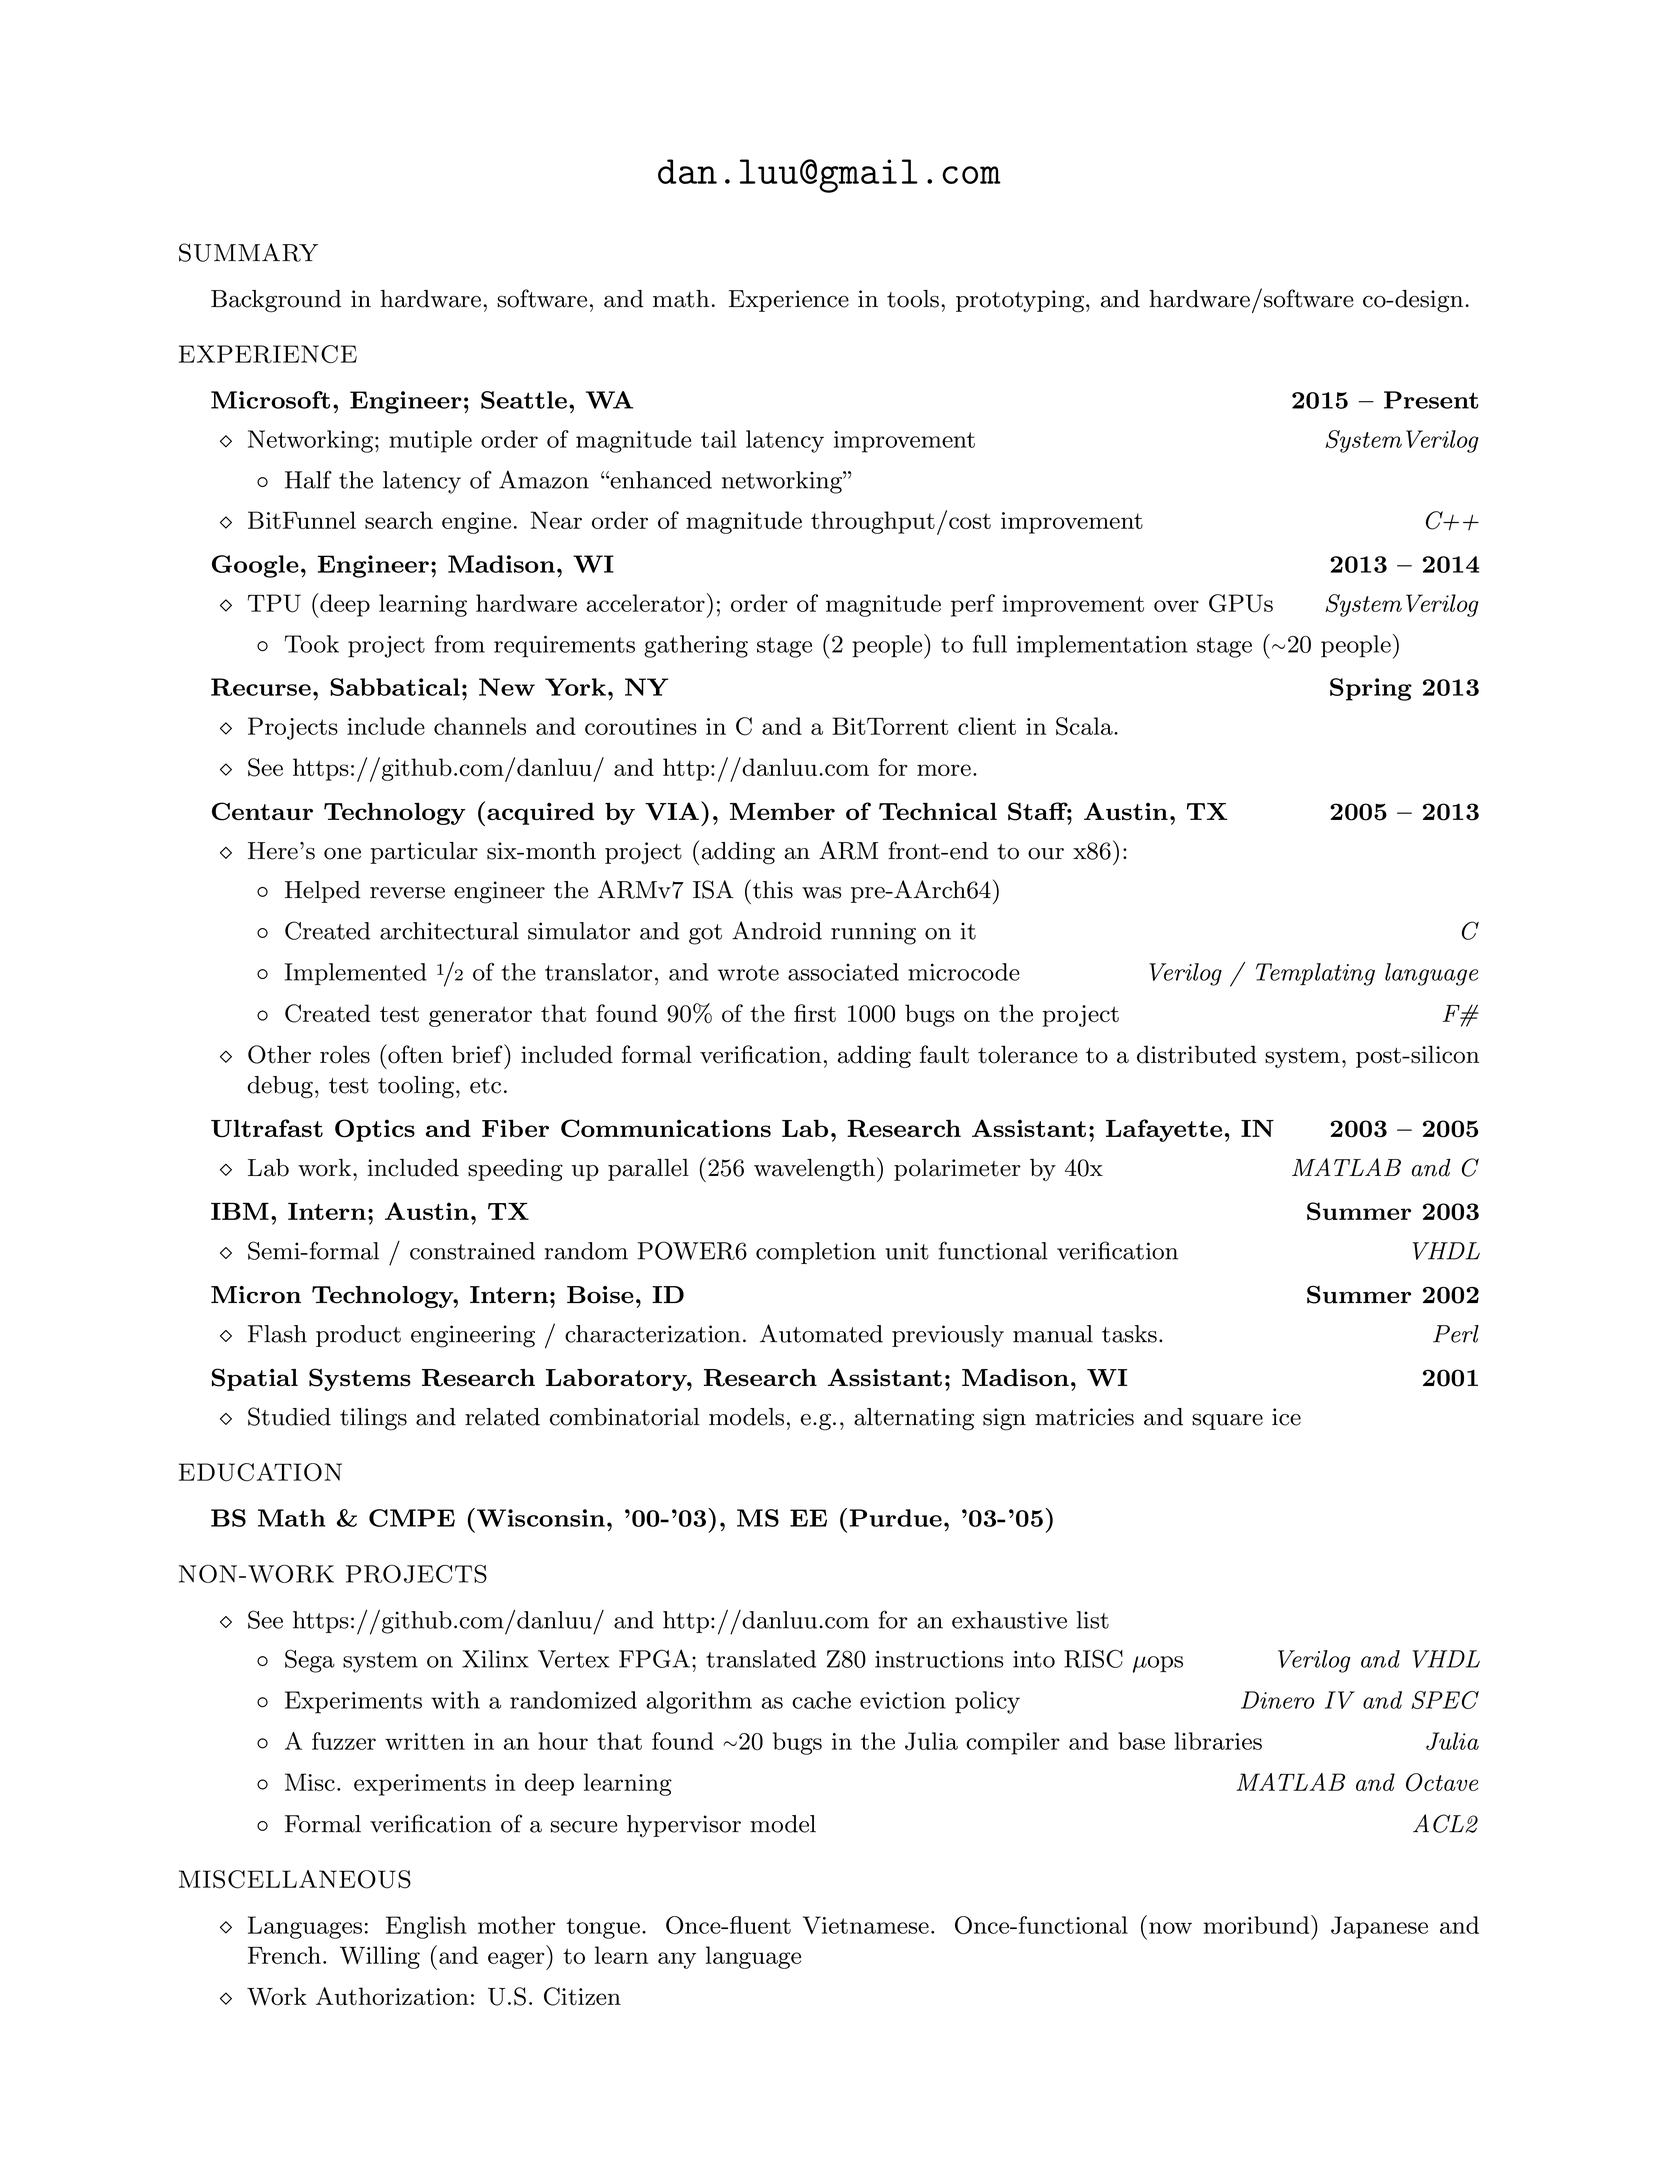
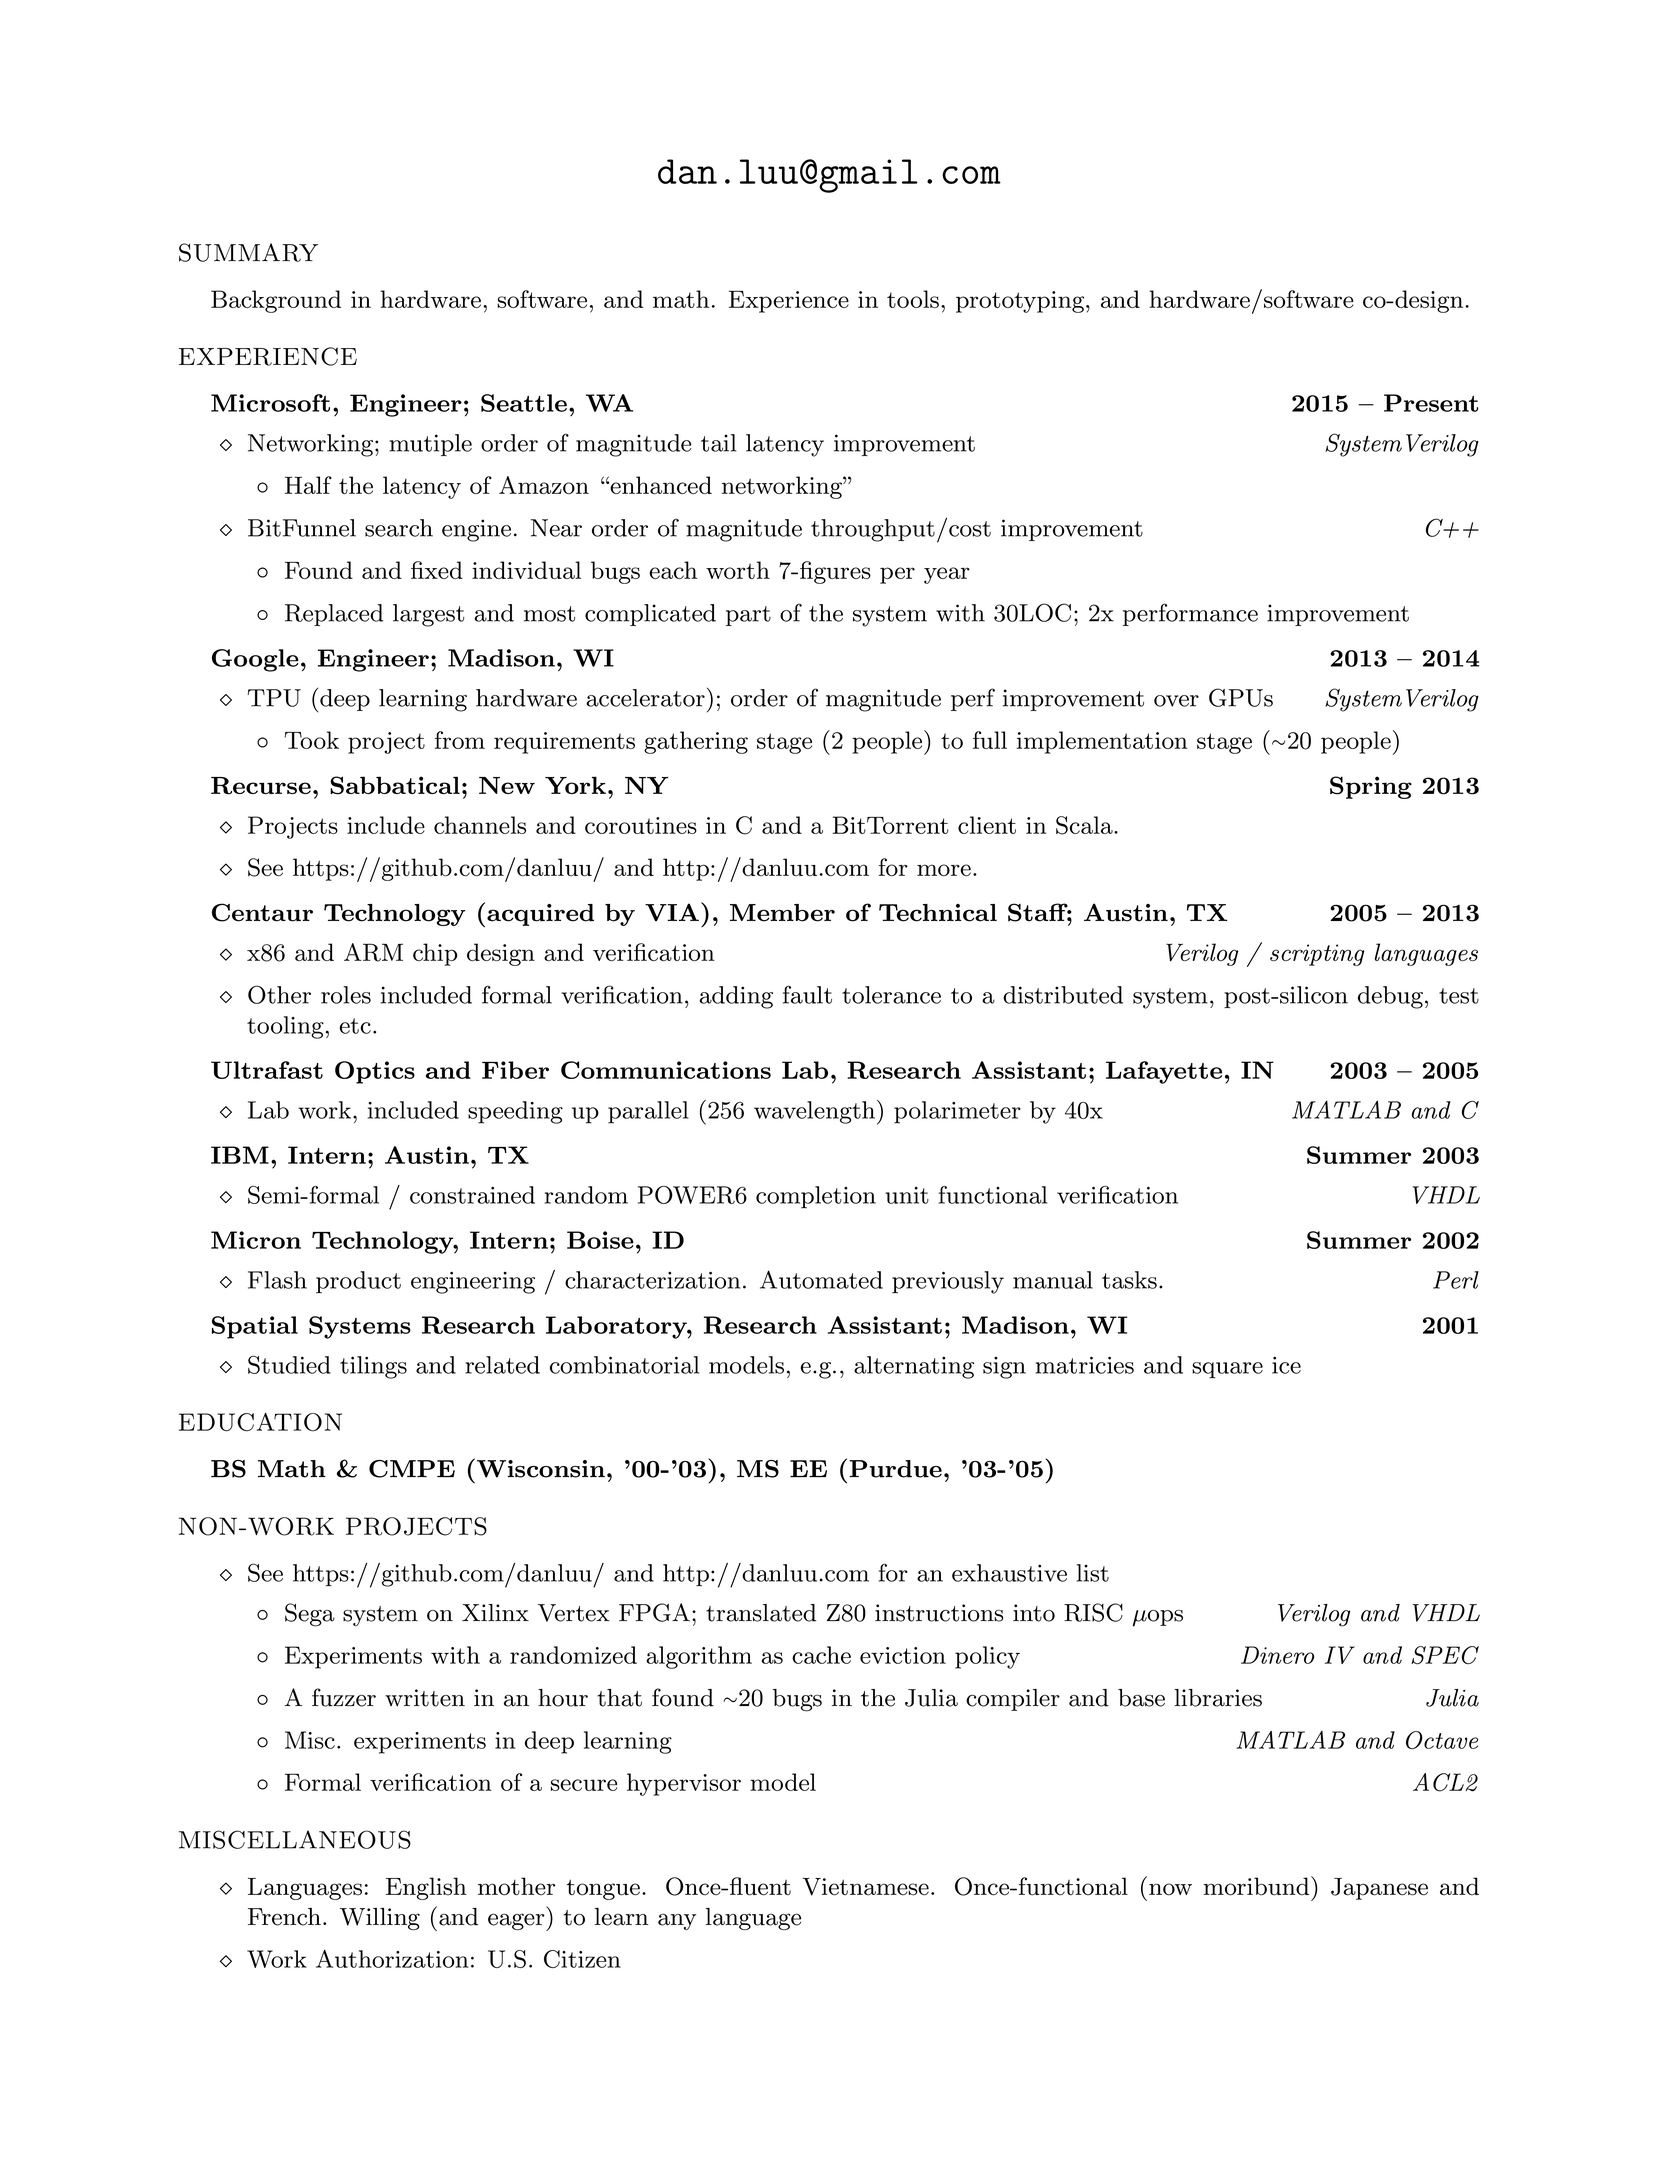
Winter 2016 update.

diff --git a/resume.tex b/resume.tex
@@ -48,7 +48,13 @@
     \begin{list3}
       \item Half the latency of Amazon ``enhanced networking''
     \end{list3}
+
   \item BitFunnel search engine. Near order of magnitude throughput/cost improvement \hfill \emph{C++}
+
+    \begin{list3}
+      \item Found and fixed individual bugs each worth 7-figures per year
+      \item Replaced largest and most complicated part of the system with 30LOC; 2x performance improvement
+    \end{list3}
   \end{list2}
 
 \item \begin{tabular1bold} Google, Engineer; Madison, WI & 2013 -- 2014 \end{tabular1bold}
@@ -71,14 +77,18 @@
 
   %\begin{adjustwidth}{1.5em}{1.5em}
   \begin{list2}
-  \item Here's one particular six-month project (adding an ARM front-end to our x86):
-    \begin{list3}
-    \item Helped reverse engineer the ARMv7 ISA (this was pre-AArch64)
-    \item Created architectural simulator and got Android running on it\hfill \emph{C}
-    \item Implemented \nicefrac{1}{2} of the translator, and wrote associated microcode \hfill \emph{Verilog / Templating language}
-    \item Created test generator that found 90\% of the first 1000 bugs on the project \hfill \emph{F\#}
-    \end{list3}
-  \item Other roles (often brief) included formal verification, adding fault tolerance to a distributed system, post-silicon debug, test tooling, etc.
+
+  %% \item Here's one particular six-month project (adding an ARM front-end to our x86):
+  %%   \begin{list3}
+  %%   \item Helped reverse engineer the ARMv7 ISA (this was pre-AArch64)
+  %%   \item Created architectural simulator and got Android running on it\hfill \emph{C}
+  %%   \item Implemented \nicefrac{1}{2} of the translator, and wrote associated microcode \hfill \emph{Verilog / Templating language}
+  %%   \item Created test generator that found 90\% of the first 1000 bugs on the project \hfill \emph{F\#}
+  %%   \end{list3}
+
+  \item x86 and ARM chip design and verification \hfill \emph{Verilog / scripting languages}
+
+  \item Other roles included formal verification, adding fault tolerance to a distributed system, post-silicon debug, test tooling, etc.
 
   \end{list2}
   %\end{adjustwidth}
